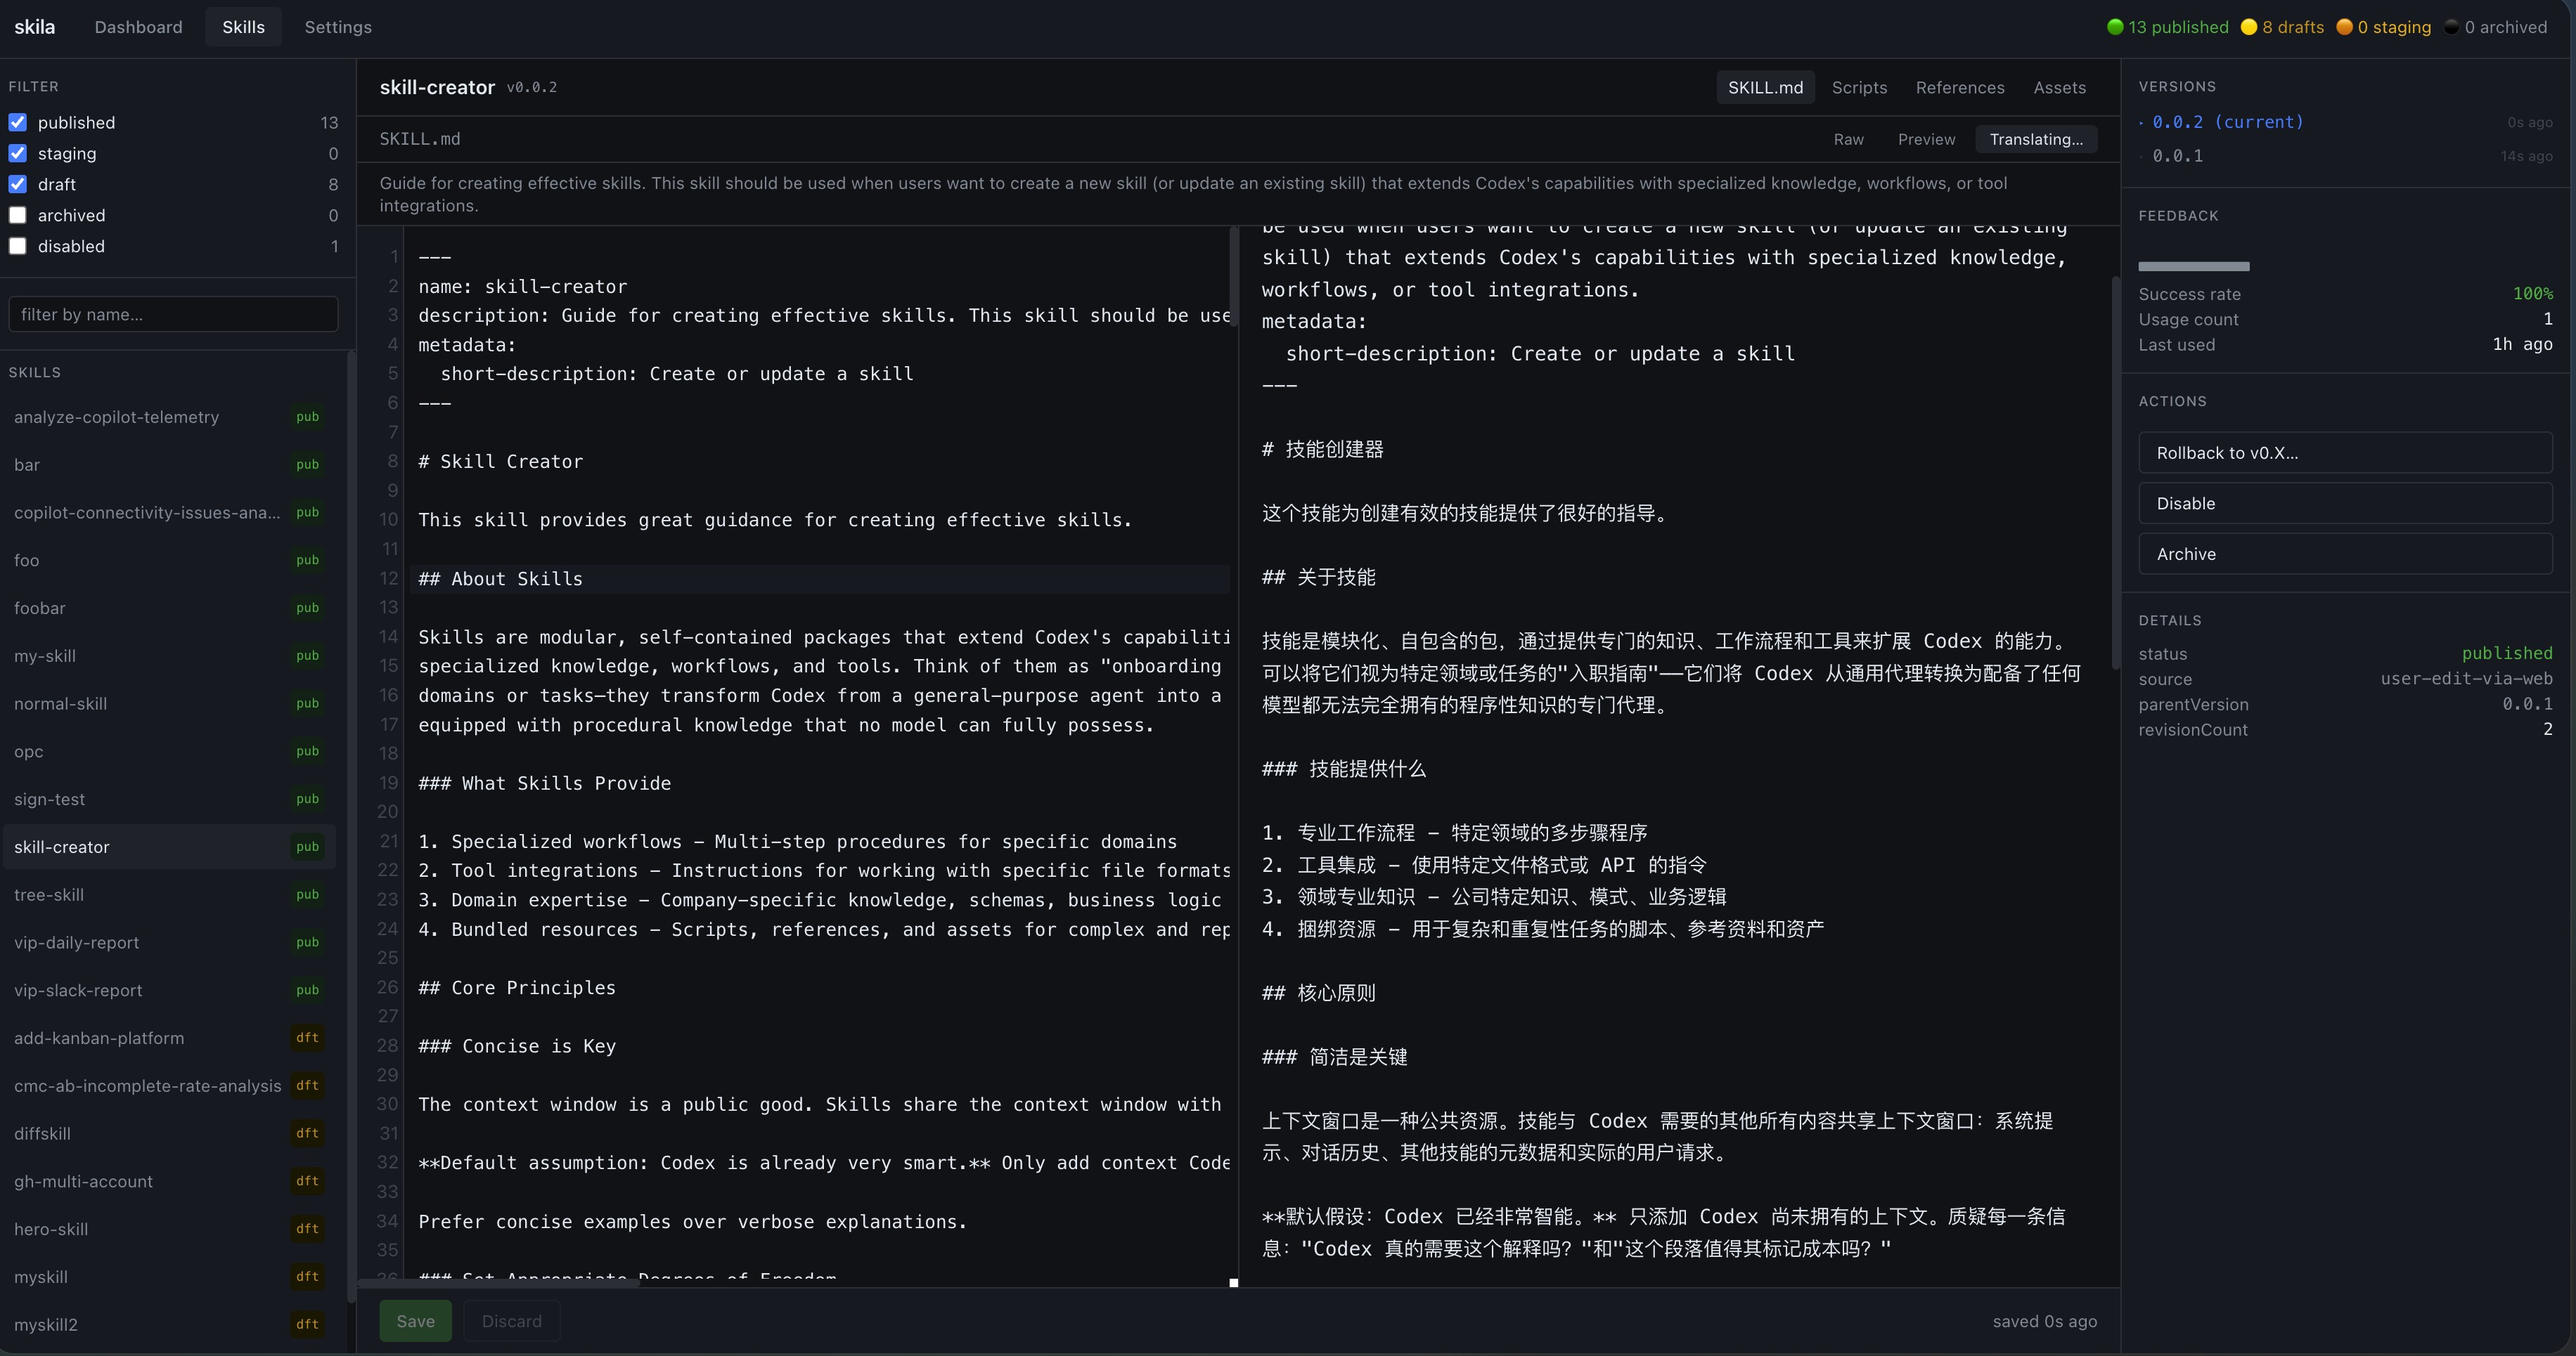
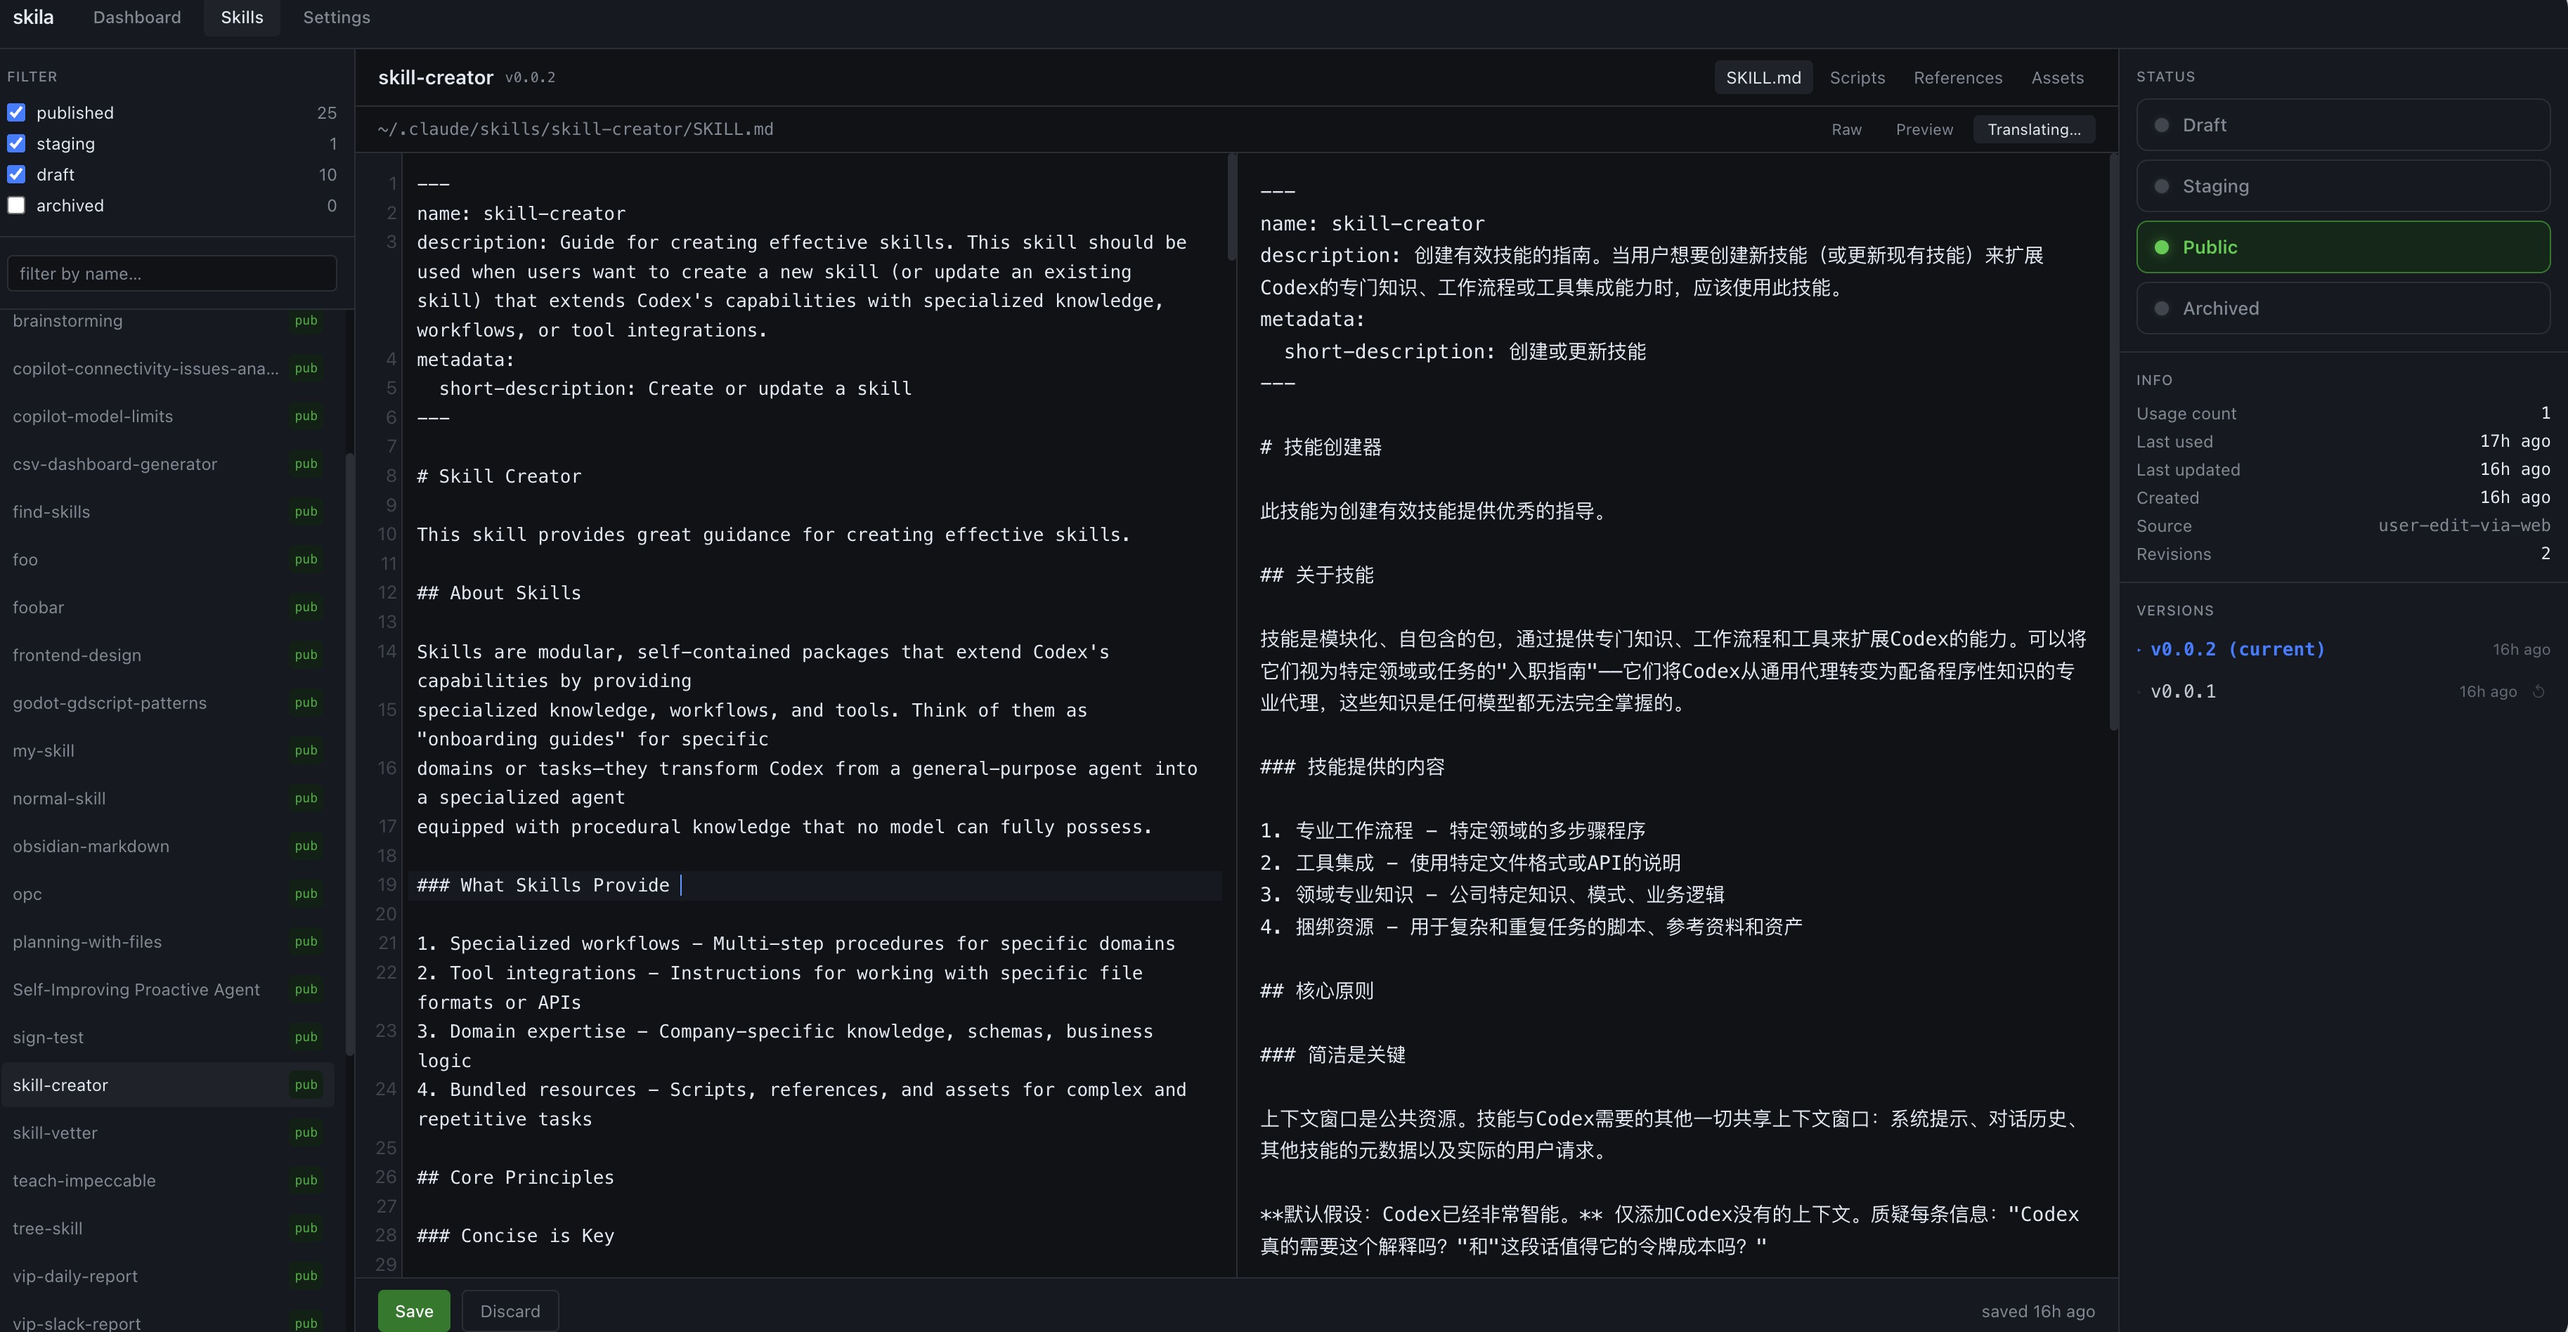
chore: v0.1.0 release prep (#13)
* feat: redesign Dashboard tab with KPI cards, charts, and data table

Complete rewrite of the Dashboard tab following csv-dashboard-generator
design system. Replaces the simple 4-card + 2-list layout with a full
data dashboard:

- 4 KPI cards with countUp animation, skeleton loading, and sparkline:
  Total Usage, Active Skills (7-day), Total Skills (by status), Last Used
- ECharts charts: status donut, top skills bar, daily activity trend
  (created/updated/invoked)
- Full data table with sort, search, pagination (15/page), CSV export,
  description tooltip on hover, and Last Improved column
- Dual theme (light/dark) with theme toggle button
- Responsive layout (2×2 KPI at ≤1024px, 1-col at ≤640px)
- Gradient bar (indigo → emerald → amber → rose)

Backend changes:
- Extended GET /api/dashboard to return per-skill aggregated stats,
  activeSkills count, global lastUsedAt, and daily trend data
- ECharts bundled locally via esbuild (no CDN, AC16 compliant)

Security fixes from self-review:
- XSS: added esc() to dbStatusBadge()
- CSV injection: proper field escaping with double-quote handling
- Empty array guard on skillStats reduce
- successRate defaults to null instead of 1 for skills without feedback

* feat: redesign right sidebar with status segment control and inline rollback

Replace the old 4-section inspector (Versions/Feedback/Actions/Details) with a
cleaner 3-section layout: Status (pill-style segmented control matching sidebar
[…]

diff --git a/dist/web/index.html b/dist/web/index.html
@@ -942,6 +942,7 @@
               }
             }),
             keymap.of([{ key: "Mod-s", run: () => { doSave(); return true; } }]),
+            EditorView.lineWrapping,
           ]
         });
         cmView = new EditorView({ state, parent: host });

diff --git a/src/web/index.html b/src/web/index.html
@@ -942,6 +942,7 @@
               }
             }),
             keymap.of([{ key: "Mod-s", run: () => { doSave(); return true; } }]),
+            EditorView.lineWrapping,
           ]
         });
         cmView = new EditorView({ state, parent: host });
